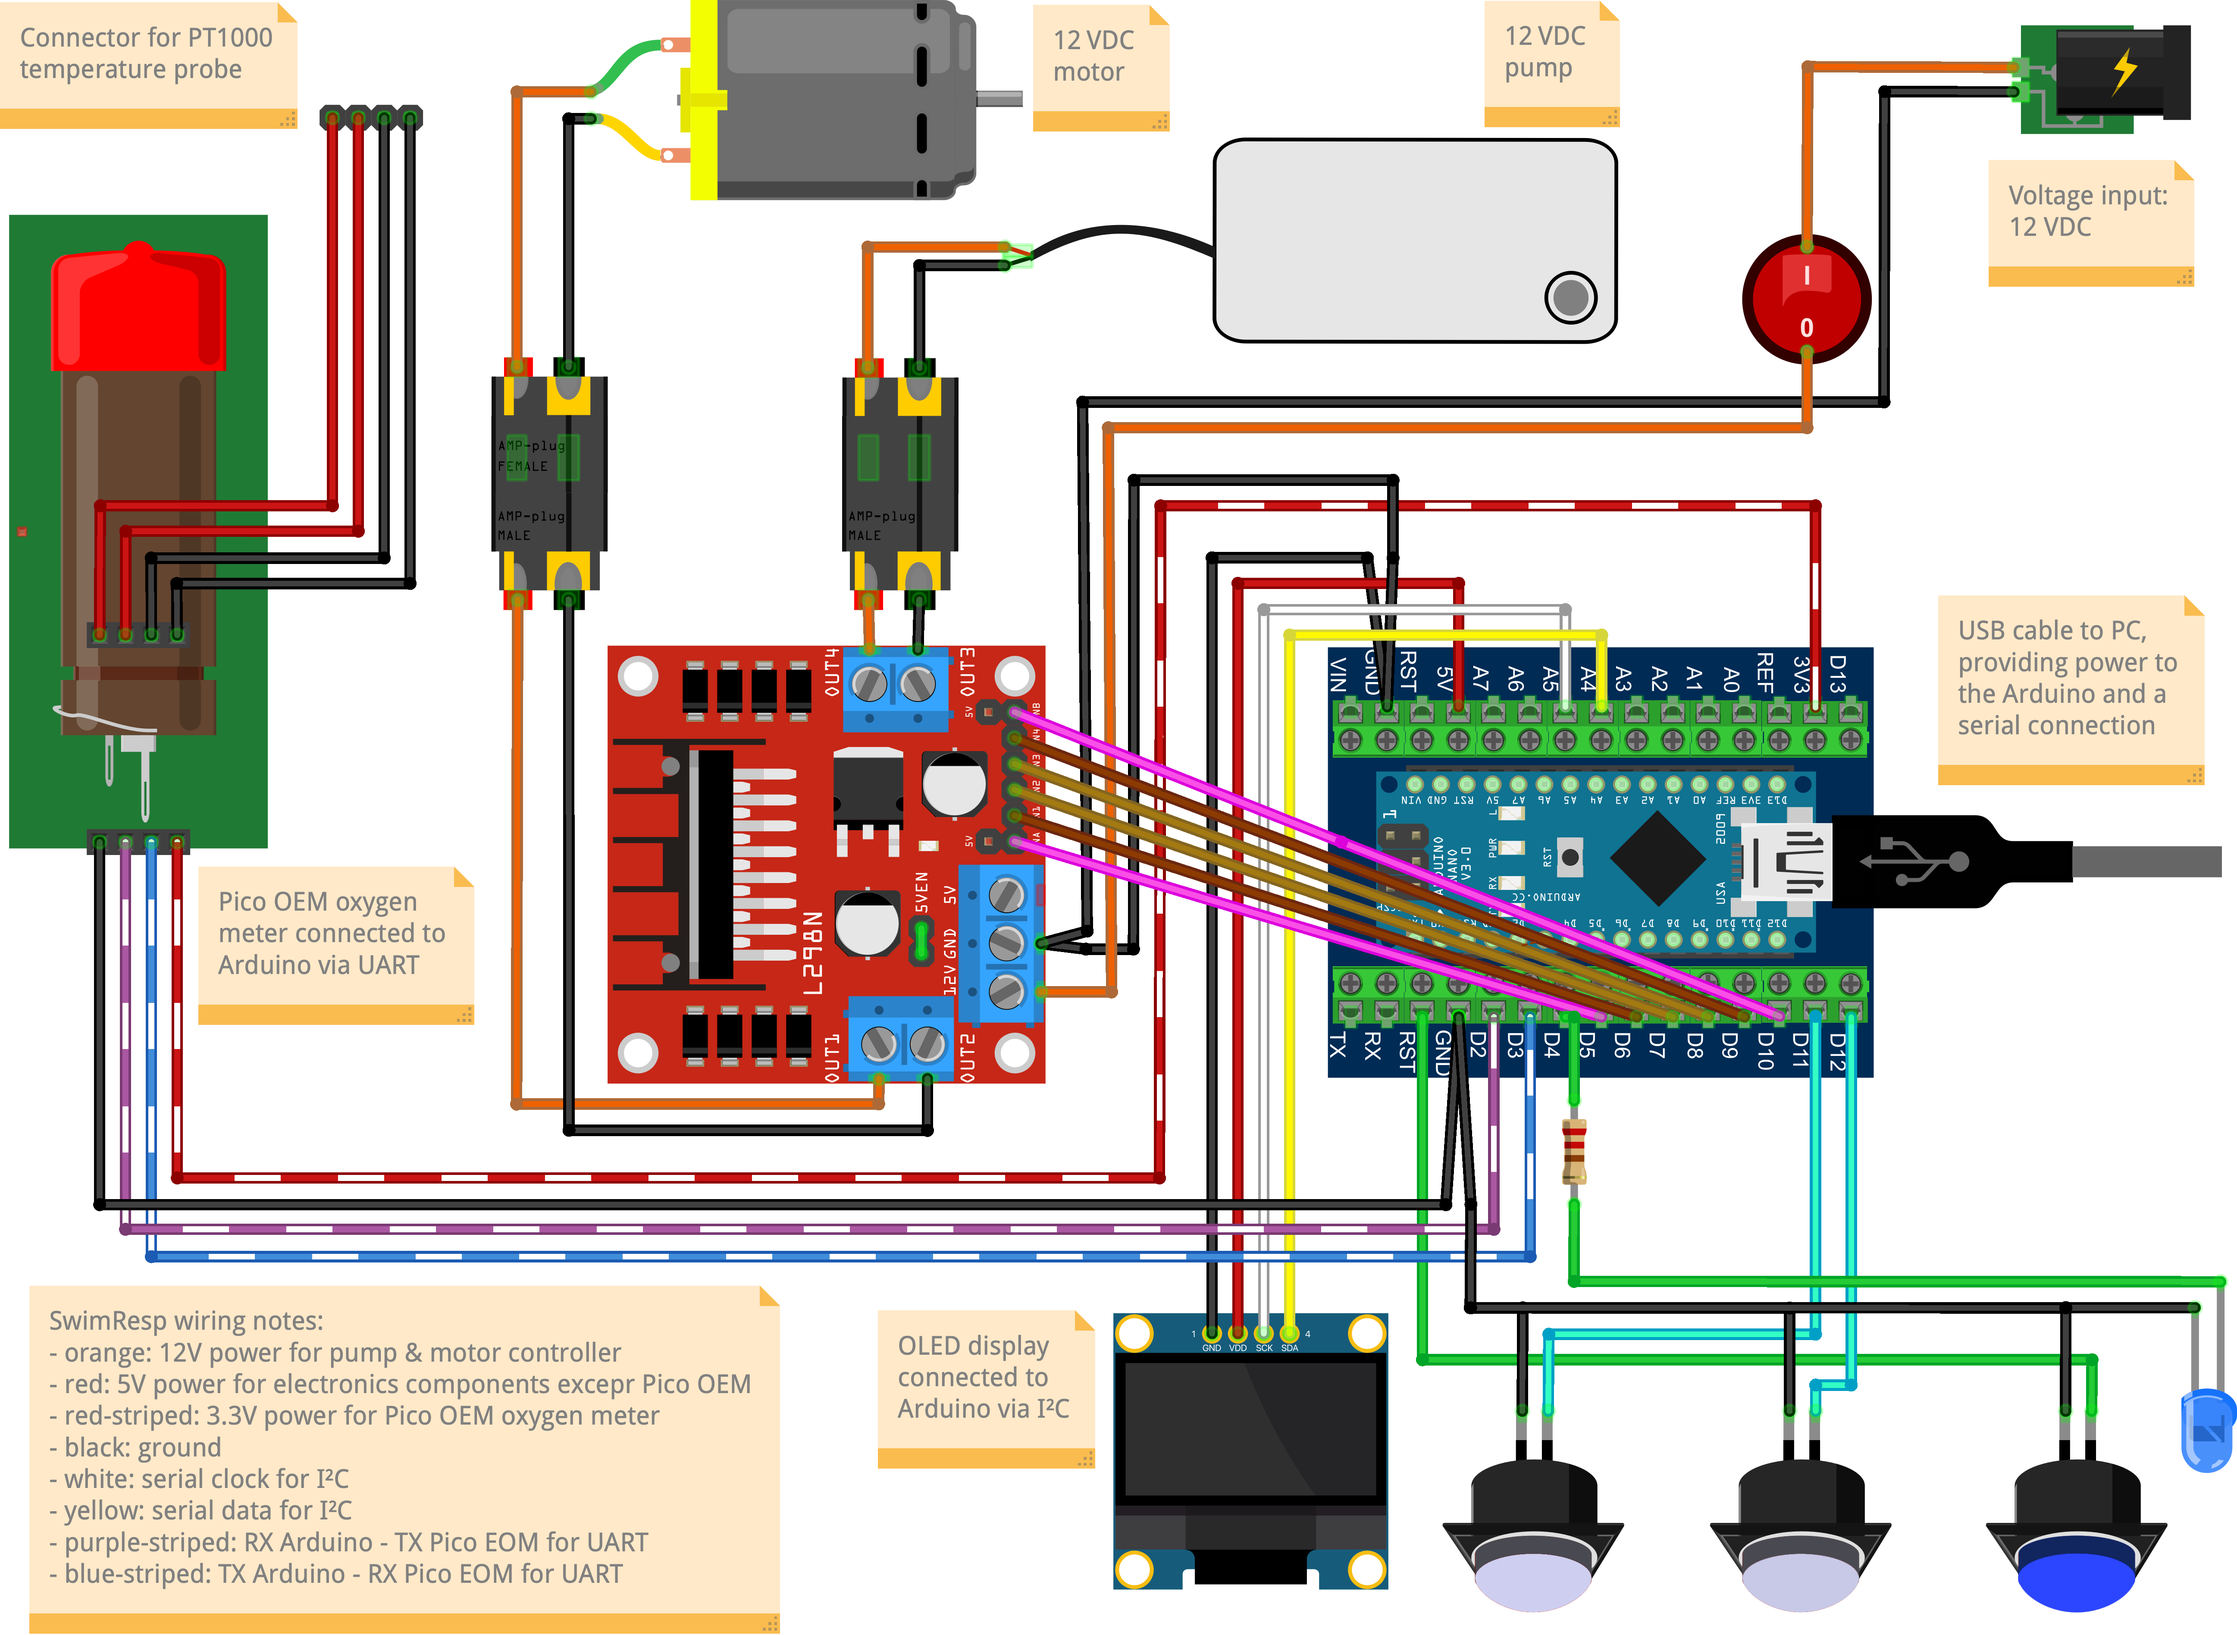
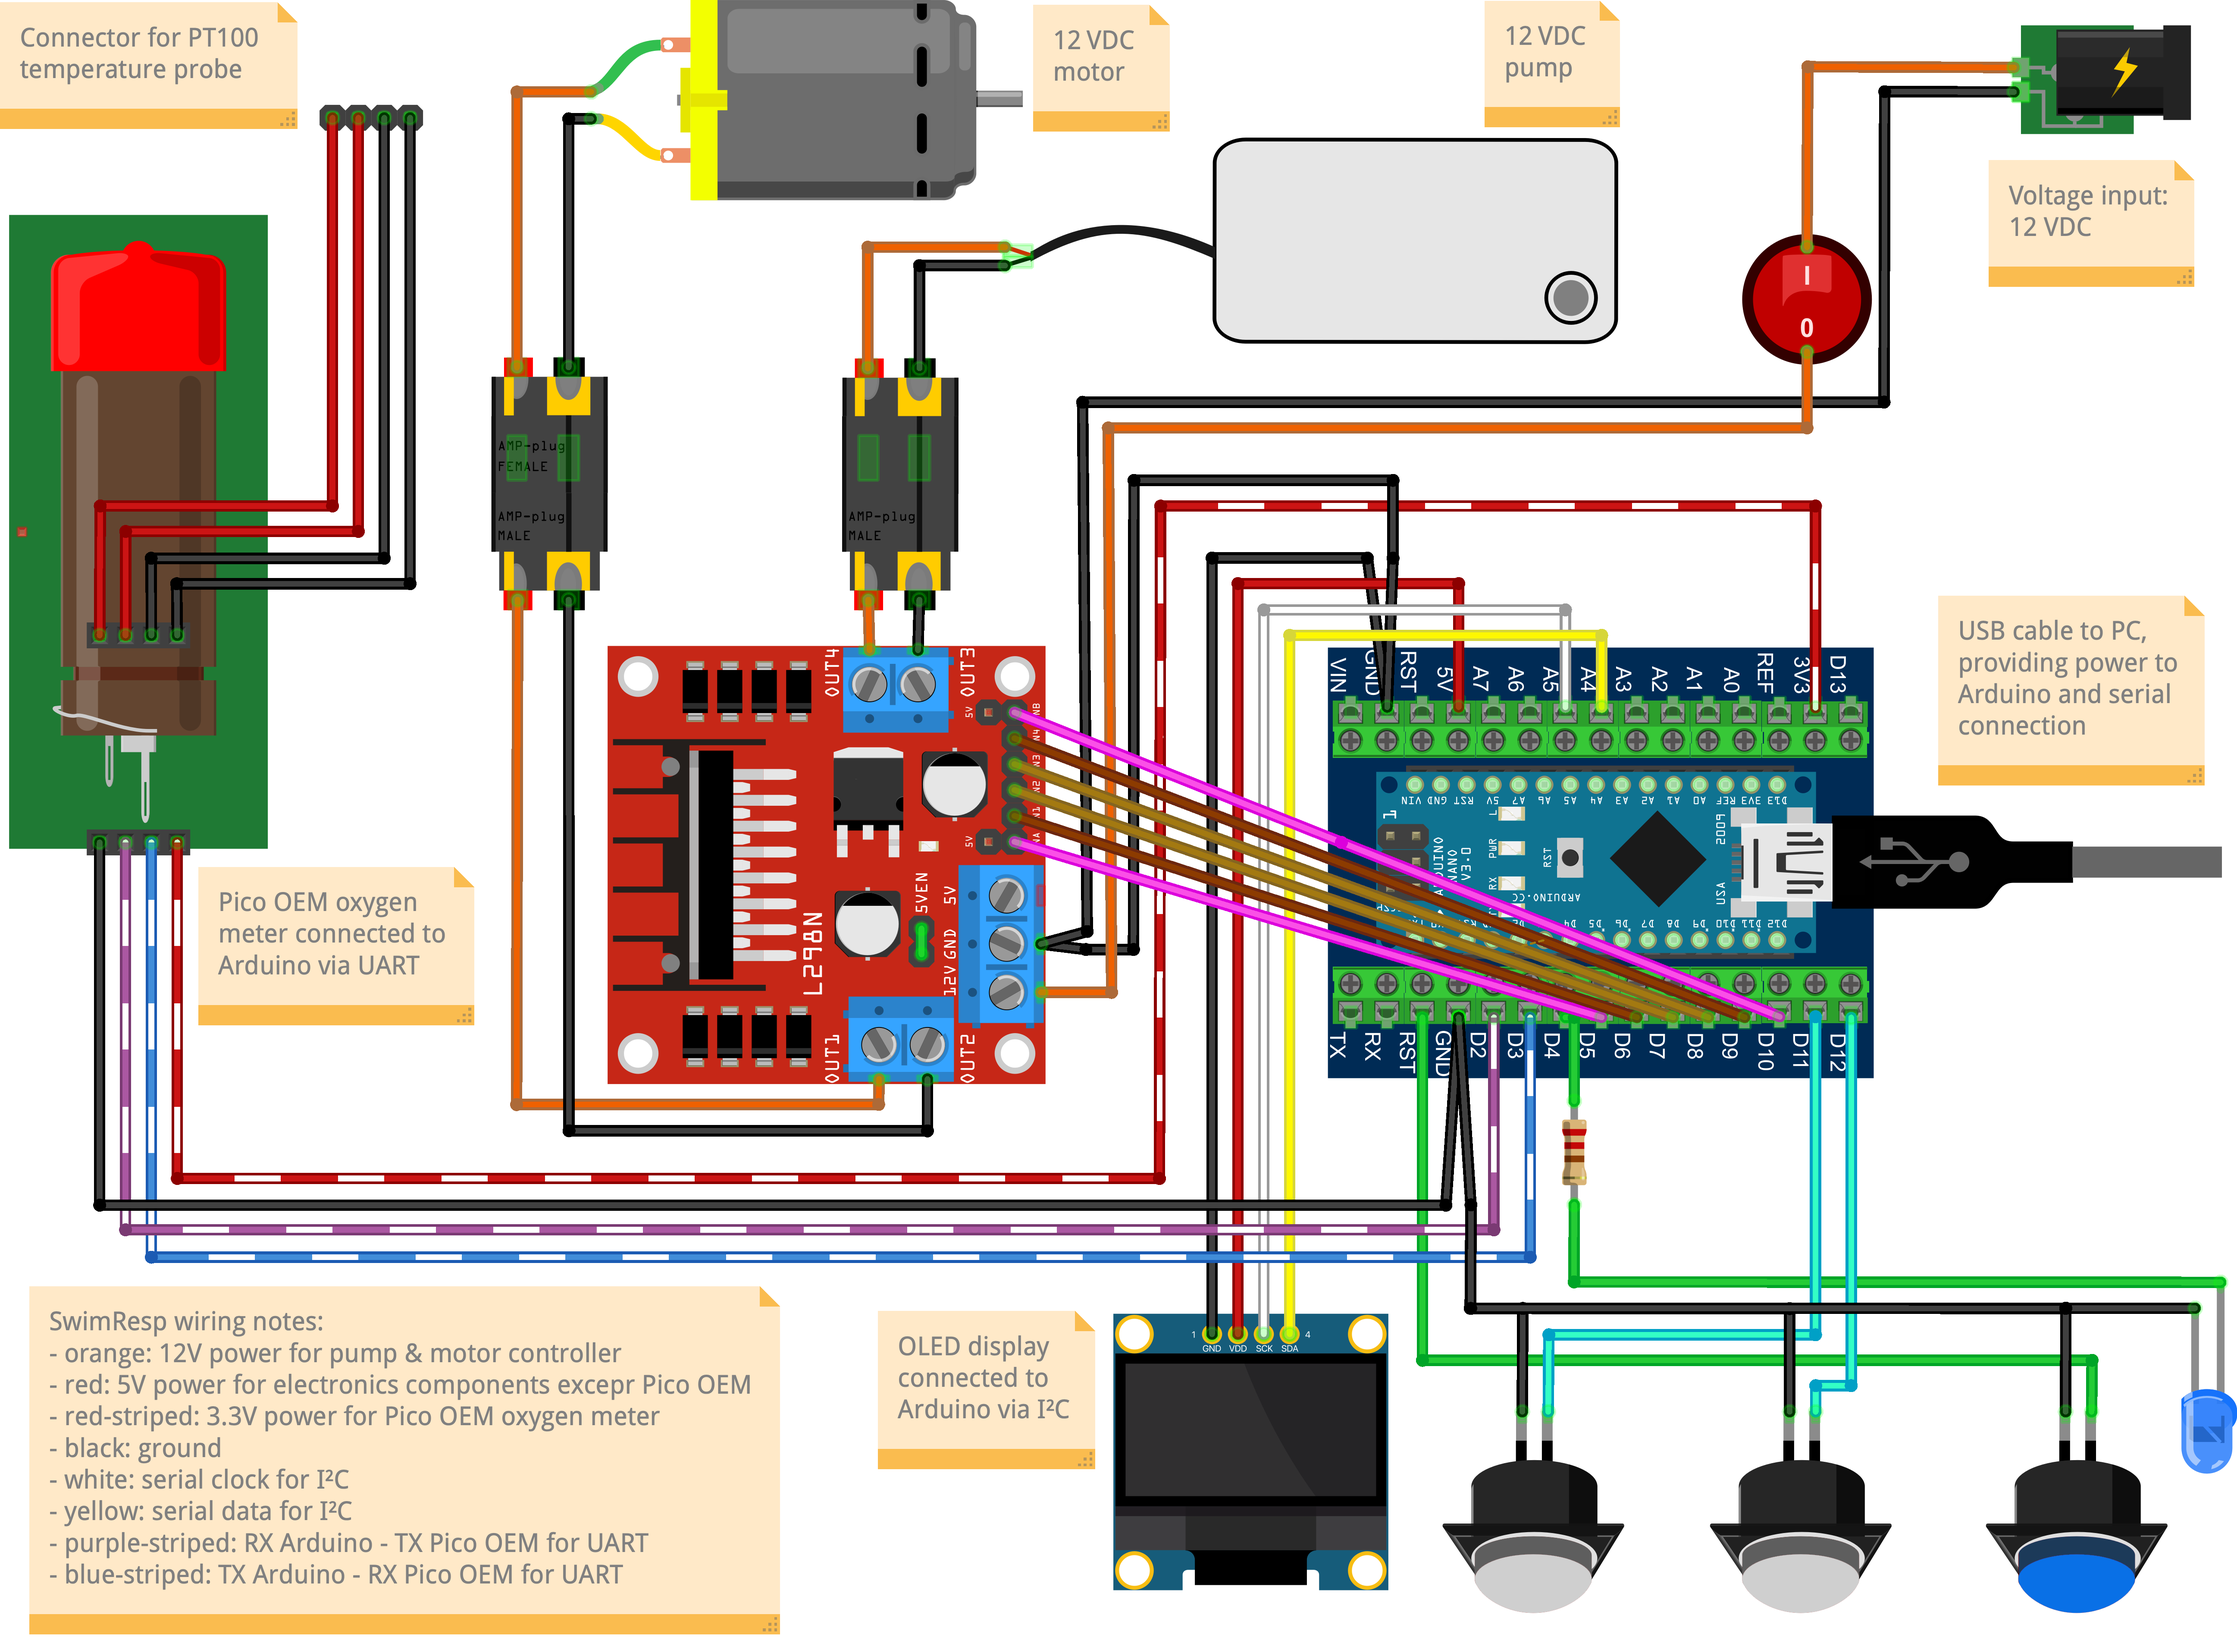
Move notes about 3.3 V logic notes into a separate file

diff --git a/docs/SwimResp_Build_Guide.md b/docs/SwimResp_Build_Guide.md
@@ -89,12 +89,12 @@ Prices listed in this BOM exclude VAT, customs duties, and delivery costs.
 | Part Name | Manufacturer | Quantity | Unit Price (USD)¹ | Total Price (USD) | Notes |
 |-----------|--------------|----------|--------------------|--------------------|-------|
 | Industrial ABS enclosure, IP65, 200×120×75 mm | Generic | 1 pc | 10 | 10 | – |
-| Male waterproof automotive connectors (Superseal 1.5‑style), 2‑pin | Generic | 2 male–female pairs | 8 | 8 | Bulk pack (3–5 pairs). Female connectors are also needed for a pump and a motor connected to SwimResp²|
+| Male waterproof automotive connectors (Superseal 1.5‑style), 2‑pin | Generic | 2 male–female pairs | 8 | 8 | Bulk pack (3–5 pairs). Female connectors are also needed for a pump and a motor connected to SwimResp² |
 | L298N motor driver board | Generic | 1 pc | 5 |  5 | Supports one pump and one motor at up to ~1.5 A per channel (2 A peak) at 12 V. |
 | Red and black wires, 20 AWG | Generic | 1 m each | 3 | 3 | Use 16 AWG for high‑current pumps and motors |
 | Round rocker switch, mounting hole diameter 15 mm, 2-pin | Generic | 1 pc | 6 | 6 | Bulk pack (3–5 pcs) |
 | DC power jack, steel, 5.5×2.1 mm | Generic | 1 pc | 7 | 7 | Bulk pack (3–5 pcs) |
-| Arduino Nano–compatible board (ATmega328P) with Mini-B USB cable and screw‑terminal adapter | Generic | 1 kit | 9 | 9 | The board can be replaced by the Arduino Nano rev.3 or 3.3 V-board from Nano family |
+| Arduino Nano–compatible board (ATmega328P) with Mini-B USB cable and screw‑terminal adapter | Generic | 1 kit | 9 | 9 | The board can be replaced by the Arduino Nano rev.3 or 3.3 V-board from Nano family³ |
 | Push button, mounting hole diameter 16 mm, 2-pin | Generic | 3 pcs | 10 | 10 | Bulk pack (10-24 pcs) |
 | LED, 5 mm | Generic | 1 pc | 6 | 6 | Bulk pack (50–200 pcs) |
 | Resistor, 220 Ω, ¼ W | Generic | 1 pc | 6 | 6 | Bulk pack (20–200 pcs) |
@@ -102,15 +102,17 @@ Prices listed in this BOM exclude VAT, customs duties, and delivery costs.
 | Solderless breadboard BB170, 47x35x8.5 mm | Generic | 1 pc | 6 | 6 | Bulk pack (3–6 pcs) |
 | Female to male jumper wires, square jumpers, 10 cm | Generic | 1 kit | 5 | 5 | – |
 | M3 Hex spacers standoff kit | Generic | 1 kit | 12 | 12 | To attach terminal and motor driver boards to enclosure |   
-| Optical oxygen meter Pico‑02 OEM module, UART, 3.3–5 V | PyroScience | 1 pc | NA³ | NA³ | Compatible with optical REDFLASH oxygen sensors and PT1000 |
+| Optical oxygen meter Pico‑02 OEM module, UART, 3.3–5 V | PyroScience | 1 pc | NA⁴ | NA⁴ | Compatible with optical REDFLASH oxygen sensors and PT100 |
 
-**Grand total: 102 USD excluding price for Pico oxygen meter**.³
+**Grand total: 102 USD excluding price for Pico oxygen meter**.²˒⁴
 
 *¹ Unit prices reflect the smallest purchasable quantity on Amazon.com. When only bulk packs are available, the listed price corresponds to the full pack even if a single piece is required.*
 
-*² This BOM does not include pumps or their cables.*
+*² This BOM does not include probes, pumps, motors or their cables.*
 
-*³ Price available only via manufacturer quotation.*
+*³ This guide does not cover 3.3 V‑logic operation; refer to [SwimResp_3v3_logic_notes.md](SwimResp_3v3_logic_notes.md) for the necessary compatibility adjustments.*
+
+*⁴ Price available only via manufacturer quotation.*
 
 # 4. Tools and Consumables
 These items are not included in the BOM because they are general workshop supplies rather than project‑specific components, but they are still required for assembly. Most of the tools and consumables can be found in FabLabs, electronic/robotics clubs and Universities of Applied Sciences around the world.

diff --git a/docs/SwimResp_3v3_logic_notes.md b/docs/SwimResp_3v3_logic_notes.md
@@ -1,0 +1,8 @@
+# SwimResp 3.3 V‑logic notes  
+SwimResp can operate with 3.3 V‑logic Nano‑family boards (Nano 33 BLE, Nano 33 IoT, RP2040, Nano ESP32), which may provide additional functionality.
+
+This topic is outside the scope of the main build guide. Several design and assembly adjustments are required, and the list below reflects unverified considerations only.
+
+1. All SwimResp components (status LED, push button, L298N motor driver board, OLED display, Pico‑O2 OEM logger) operate correctly at 3.3 V logic level.
+
+2. Power the OLED display from the 3.3 V pin of a 3.3 V‑logic Arduino Nano to ensure reliable two‑way I²C communication.
